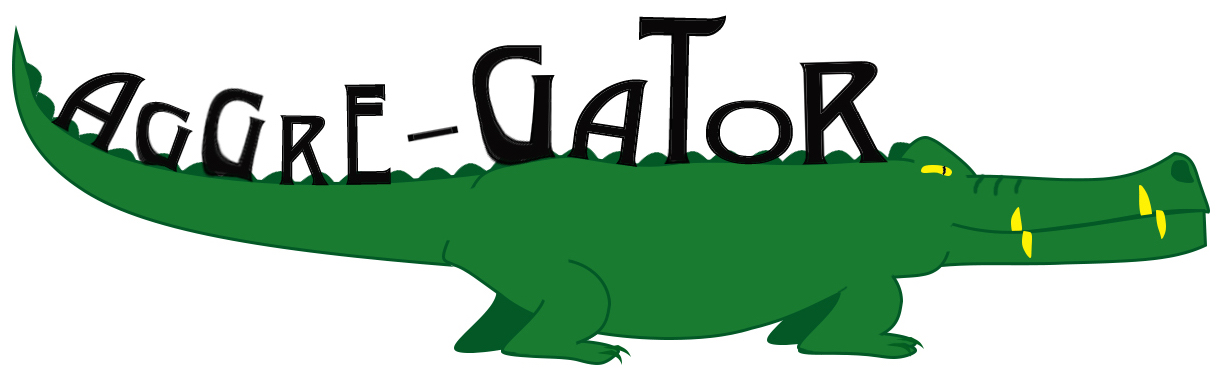
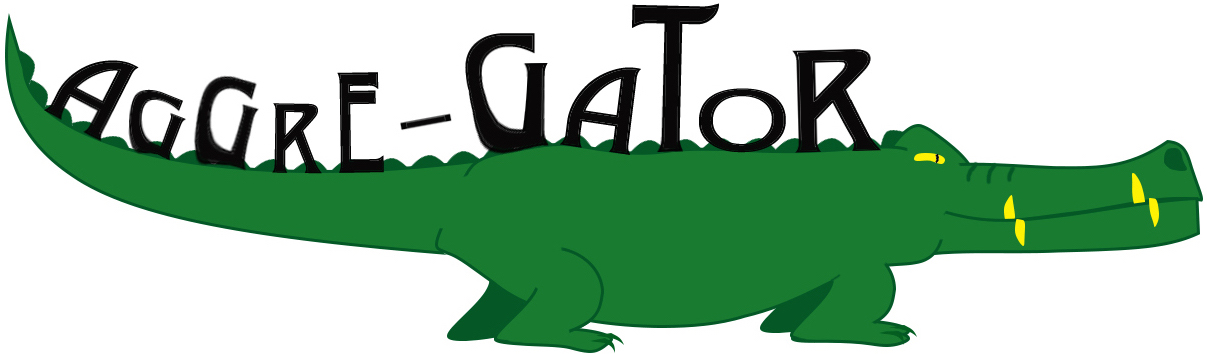
added font to application

diff --git a/app/assets/stylesheets/application.css.scss b/app/assets/stylesheets/application.css.scss
@@ -46,13 +46,14 @@
 }
 
 h1 {
+  font-family: 'Crushed', cursive;
   margin-top: 2em;
   margin-bottom: 2em;
   text-align: center;
 }
 
-.gator {
-   width: 700px;
+.masthead {
+  //  width: 700px;
   margin-left: auto;
   margin-right: auto;
 }
